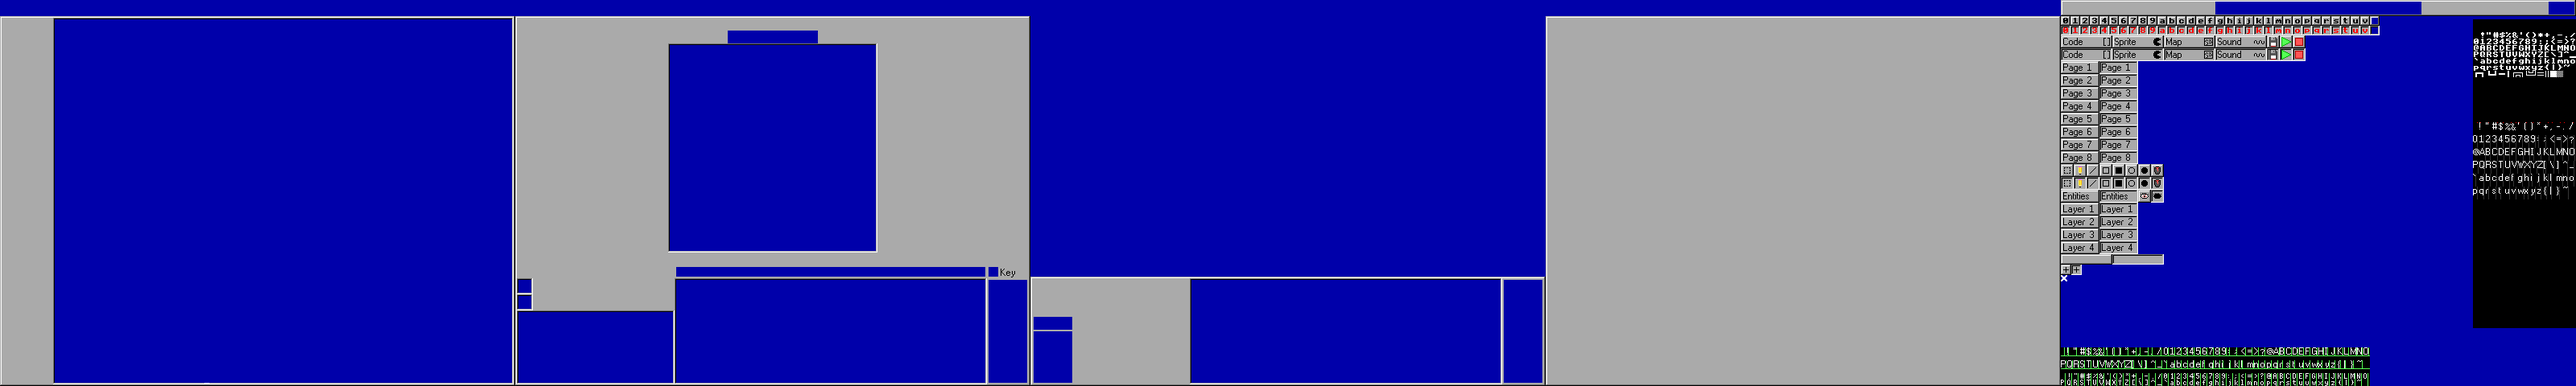
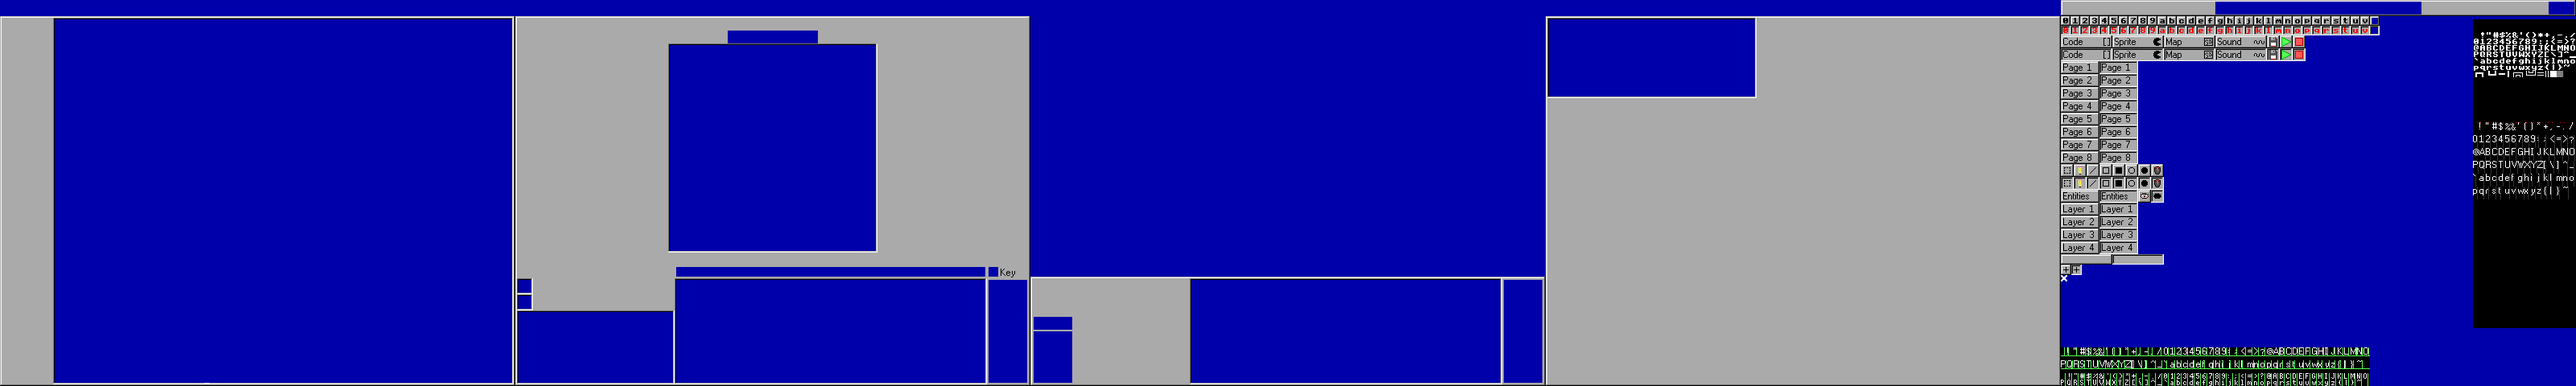
Start on adding sfx editor

Changed region(s): [[0.5938, 0.0312, 0.6875, 0.25]]

diff --git a/src/backend/audio.c b/src/backend/audio.c
@@ -19,6 +19,17 @@ const char *note_to_string_map[] = {
 	[NOTE_B] = "B",
 };
 
+// TODO: put on computer struct
+// Then I read out the current_step and use that to render the progress beam in the sound editor
+typedef struct pattern_playback_info {
+	uint16_t pattern_index;
+	voice_t *voice;
+	int time_left_on_current_step;
+	int current_step;
+} pattern_playback_info_t;
+
+static pattern_playback_info_t patterns[10] = {0};
+
 voice_t *voice_alloc(voice_pool_t *pool) {
 	for (size_t i = 0; i < MAX_VOICES; i++) {
 		if (!pool->voices[i].active) {
@@ -76,10 +87,76 @@ static oscillator_t _osc2 = {
 	.waveform = WAVEFORM_SQUARE,
 };
 
+void _update_patterns(computer_t *computer) {
+	voice_t *voice = patterns[0].voice;
+	if (voice == NULL) {
+		return;
+	}
+
+	if (patterns[0].current_step == STEPS_IN_PATTERN) {
+		// if (voice->oscillator.phase > 0) {
+
+		// }
+		// if (voice->oscillator.phase > 0.001 || voice->oscillator.phase < -0.001) {
+		// 	return;
+		// }
+
+			voice->active = false;
+			memset(&patterns[0], 0, sizeof(pattern_playback_info_t));
+			// memset(voice, 0, sizeof(voice_t));
+			// return;
+		// }
+
+		// voice->amplitude *= 0.9;
+
+		// if (voice->amplitude < 0.001) {
+
+			// patterns[0].voice = NULL;
+		// }
+		// return;
+
+	}
+	
+	if (patterns[0].time_left_on_current_step > 0) {
+		patterns[0].time_left_on_current_step--;
+		return;
+	}
+
+	pattern_t *pattern = &get_global_computer()->ram->patterns[patterns[0].pattern_index];
+
+	int octave = pattern->steps[patterns[0].current_step].pitch / 12 + BASE_OCTAVE;
+	int freq = note_to_freq_tet12(pattern->steps[patterns[0].current_step].pitch, octave);
+
+	// if (voice->oscillator.phase > 0.001 || voice->oscillator.phase < -0.001) {
+	// 	return;
+	// }
+	voice->amplitude -= 0.001f;
+	// // voice->amplitude *= 0.95f;
+	if (voice->amplitude > 0.0001f) {
+		return;
+	}
+
+	voice->oscillator = (oscillator_t){
+		.freq = freq,
+		.phase = 0.0f,
+		.waveform = pattern->steps[patterns[0].current_step].waveform,
+	};
+	voice->amplitude = 0.05f;
+
+	patterns[0].time_left_on_current_step = 500;
+	patterns[0].current_step++;
+}
+
 void audio_update(float *buffer, int frames) {
+	// printf("audio update\n");
+
 	voice_pool_t *pool = &get_global_computer()->voice_pool;
 
+	
 	for (int i = 0; i < frames; i++) {
+		_update_patterns(get_global_computer());
+		// printf("frame: %d\n", i);
+
 		float left = 0.0f;
 		float right = 0.0f;
 
@@ -87,6 +164,11 @@ void audio_update(float *buffer, int frames) {
 			voice_t *voice = &pool->voices[j];
 			if (!voice->active) {
 				continue;
+				// // voice->amplitude *= 0.95f;
+				// voice->amplitude -= 0.001f;
+				// if (voice->amplitude < 0.0001f) {
+				// 	memset(voice, 0, sizeof(voice_t));
+				// }
 			}
 
 			sample_t sample = osc_next_sample(&voice->oscillator);
@@ -103,4 +185,16 @@ void audio_update(float *buffer, int frames) {
 		buffer[i * 2 + 0] = left;
 		buffer[i * 2 + 1] = right;
 	}
+}
+
+void audio_play_pattern(computer_t *computer, int pattern_index) {
+	pattern_t *pattern = &computer->ram->patterns[pattern_index];
+	// voice_t *voice = voice_alloc(&computer->voice_pool);
+	voice_t *voice = &computer->voice_pool.voices[0];
+	voice->active = true;
+
+	patterns[0].current_step = 0;
+	patterns[0].pattern_index = pattern_index;
+	patterns[0].time_left_on_current_step = 0;
+	patterns[0].voice = voice;
 }

diff --git a/src/editor/sound.c b/src/editor/sound.c
@@ -14,10 +14,12 @@
 
 typedef struct layout {
 	point_t piano_pos;
+	rect_t pitch_graph_rect;
 } layout_t;
 
 static const layout_t _layout = {
-	.piano_pos = {100, 100},
+	.piano_pos = {300, 100},
+	.pitch_graph_rect = {{4, 24, 256, 96}},
 };
 
 #define PIANO_KEY_WIDTH 20
@@ -26,24 +28,34 @@ static const layout_t _layout = {
 static voice_t *_voice_map[12] = {0};
 
 static const zinc_key_t _note_key_map[] = {
-	[NOTE_C] = KEY_S,
-	[NOTE_CSHARP] = KEY_E,
-	[NOTE_D] = KEY_D,
-	[NOTE_DSHARP] = KEY_R,
-	[NOTE_E] = KEY_F,
-	[NOTE_F] = KEY_G,
-	[NOTE_FSHARP] = KEY_Y,
-	[NOTE_G] = KEY_H,
-	[NOTE_GSHARP] = KEY_U,
-	[NOTE_A] = KEY_J,
-	[NOTE_ASHARP] = KEY_I,
-	[NOTE_B] = KEY_K,
+	[NOTE_C] = KEY_Z,
+	[NOTE_CSHARP] = KEY_S,
+	[NOTE_D] = KEY_X,
+	[NOTE_DSHARP] = KEY_D,
+	[NOTE_E] = KEY_C,
+	[NOTE_F] = KEY_V,
+	[NOTE_FSHARP] = KEY_G,
+	[NOTE_G] = KEY_B,
+	[NOTE_GSHARP] = KEY_H,
+	[NOTE_A] = KEY_N,
+	[NOTE_ASHARP] = KEY_J,
+	[NOTE_B] = KEY_M,
 };
 
 static int _current_octave = 4;
 
-void sound_editor_init(computer_t *computer) {
+static int _current_pattern = 0;
 
+void sound_editor_init(computer_t *computer) {
+	// Initialize the first pattern
+	// computer->ram->patterns[_current_pattern].speed = 1;
+	// for (size_t i = 0; i < STEPS_IN_PATTERN; i++) {
+	// 	computer->ram->patterns[_current_pattern].steps[i].pitch = 0;
+	// 	computer->ram->patterns[_current_pattern].steps[i].volume = 0;
+	// 	computer->ram->patterns[_current_pattern].steps[i].waveform = WAVEFORM_SINE;
+	// }
+
+	memset(computer->ram->patterns, 0, PATTERN_AMOUNT * sizeof(pattern_t));
 }
 
 void sound_editor_update(computer_t *computer) {
@@ -74,9 +86,39 @@ void sound_editor_update(computer_t *computer) {
 			_voice_map[i] = NULL;
 		}
 	}
+
+	point_t mouse_pos = input_get_mouse_pos();
+
+	if (input_mouse_button_held(MOUSE_BUTTON_LEFT)) {
+		if (point_in_rect(mouse_pos, _layout.pitch_graph_rect)) {
+			int step = (mouse_pos.x - _layout.pitch_graph_rect.x) / 8;
+			int pitch = 47 - (mouse_pos.y - _layout.pitch_graph_rect.y) / 2;
+			// printf("step: %d, pitch: %d\n", step, pitch);
+			computer->ram->patterns[_current_pattern].steps[step].pitch = pitch;
+		}
+	}
+
+	if (input_key_pressed(KEY_SPACE)) {
+		audio_play_pattern(computer, _current_pattern);
+	}
 }
 
 void sound_editor_draw(computer_t *computer) {
+	// memset(computer->ram->patterns, 0, PATTERN_AMOUNT * sizeof(pattern_t));
+
+	// Pitch graph
+	gfx_draw_filled_rect(FB_SURF(computer->ram->framebuffer.data), _layout.pitch_graph_rect, COLOR_BLACK);
+
+	for (size_t i = 0; i < STEPS_IN_PATTERN; i++) {
+		gfx_draw_line(FB_SURF(computer->ram->framebuffer.data), POINT(_layout.pitch_graph_rect.x + i * 8, _layout.pitch_graph_rect.y), POINT(_layout.pitch_graph_rect.x + i * 8, _layout.pitch_graph_rect.y + _layout.pitch_graph_rect.h - 1), COLOR_DARKGRAY);
+	}
+	
+
+	for (size_t i = 0; i < STEPS_IN_PATTERN; i++) {
+		// gfx_draw_line(FB_SURF(computer->ram->framebuffer.data), POINT(i * 8, ), POINT_T, color_t color)
+		gfx_draw_filled_rect(FB_SURF(computer->ram->framebuffer.data), RECT(_layout.pitch_graph_rect.x + i * 8 + 1, _layout.pitch_graph_rect.y + _layout.pitch_graph_rect.h - (computer->ram->patterns[_current_pattern].steps[i].pitch * 2) - 3, 7, 3), COLOR_DARKGREEN);
+	}
+
 	// Draw a piano
 	for (int i = 0; i < 12; i++) {
 		color_t color = COLOR_WHITE;

diff --git a/src/computer.h b/src/computer.h
@@ -78,7 +78,7 @@ Memory layout, global constants
 #define FRAME_DELAY 1000/FPS
 
 #define SAMPLE_RATE 44100
-#define SAMPLES 1024
+#define SAMPLES 256
 #define CHANNELS 2
 
 #define SKIN_WIDTH SCREEN_WIDTH * 5
@@ -90,6 +90,8 @@ Memory layout, global constants
 #define FILES_AMOUNT 32
 
 #define MAX_ENTITIES 32768
+
+#define BASE_OCTAVE 1
 
 typedef uint8_t color_t;
 
@@ -229,6 +231,26 @@ typedef struct entities {
 	uint64_t amount;
 } entities_t;
 
+typedef enum waveform {
+	WAVEFORM_SINE,
+	WAVEFORM_SQUARE,
+	WAVEFORM_TRIANGLE,
+} waveform_t;
+
+typedef struct pattern_step {
+	uint8_t pitch; // Ranges from 0 - 23, so 2 * 12 possibilities or 2 octaves
+	uint8_t volume;
+	waveform_t waveform;
+} pattern_step_t;
+
+#define STEPS_IN_PATTERN 32
+#define PATTERN_AMOUNT 128
+
+typedef struct pattern {
+	pattern_step_t steps[STEPS_IN_PATTERN];
+	uint8_t speed;
+} pattern_t;
+
 // TODO: Manually align this stuff
 typedef union ram {
 	struct {
@@ -249,6 +271,7 @@ typedef union ram {
 		color_t border_color;
 		text_mode_font_t text_mode_font;
 		entities_t entities;
+		pattern_t patterns[PATTERN_AMOUNT];
 
 		terminal_t terminal;
 		shell_t shell;
@@ -261,12 +284,6 @@ typedef struct sample {
 	float left;
 	float right;
 } sample_t;
-
-typedef enum waveform {
-	WAVEFORM_SINE,
-	WAVEFORM_SQUARE,
-	WAVEFORM_TRIANGLE,
-} waveform_t;
 
 typedef struct oscillator {
 	waveform_t waveform;
@@ -282,6 +299,8 @@ typedef struct voice {
 	// float time;
 	
 	bool active;
+
+	// int frames_left;
 } voice_t;
 
 #define MAX_VOICES 32

diff --git a/src/editor/menu.c b/src/editor/menu.c
@@ -22,7 +22,7 @@ typedef enum workspace_type {
 	WORKSPACE_SOUND,
 } workspace_type_t;
 
-static workspace_type_t _active_workspace = WORKSPACE_CODE;
+static workspace_type_t _active_workspace = WORKSPACE_SOUND;
 
 typedef struct layout {
 	point_t code_editor_button_pos;

diff --git a/src/backend/audio.h b/src/backend/audio.h
@@ -47,3 +47,5 @@ float note_to_freq_tet12(note_t note, int octave);
 void audio_init(computer_t *computer);
 
 void audio_update(float *buffer, int frames);
+
+void audio_play_pattern(computer_t *computer, int pattern_index);
